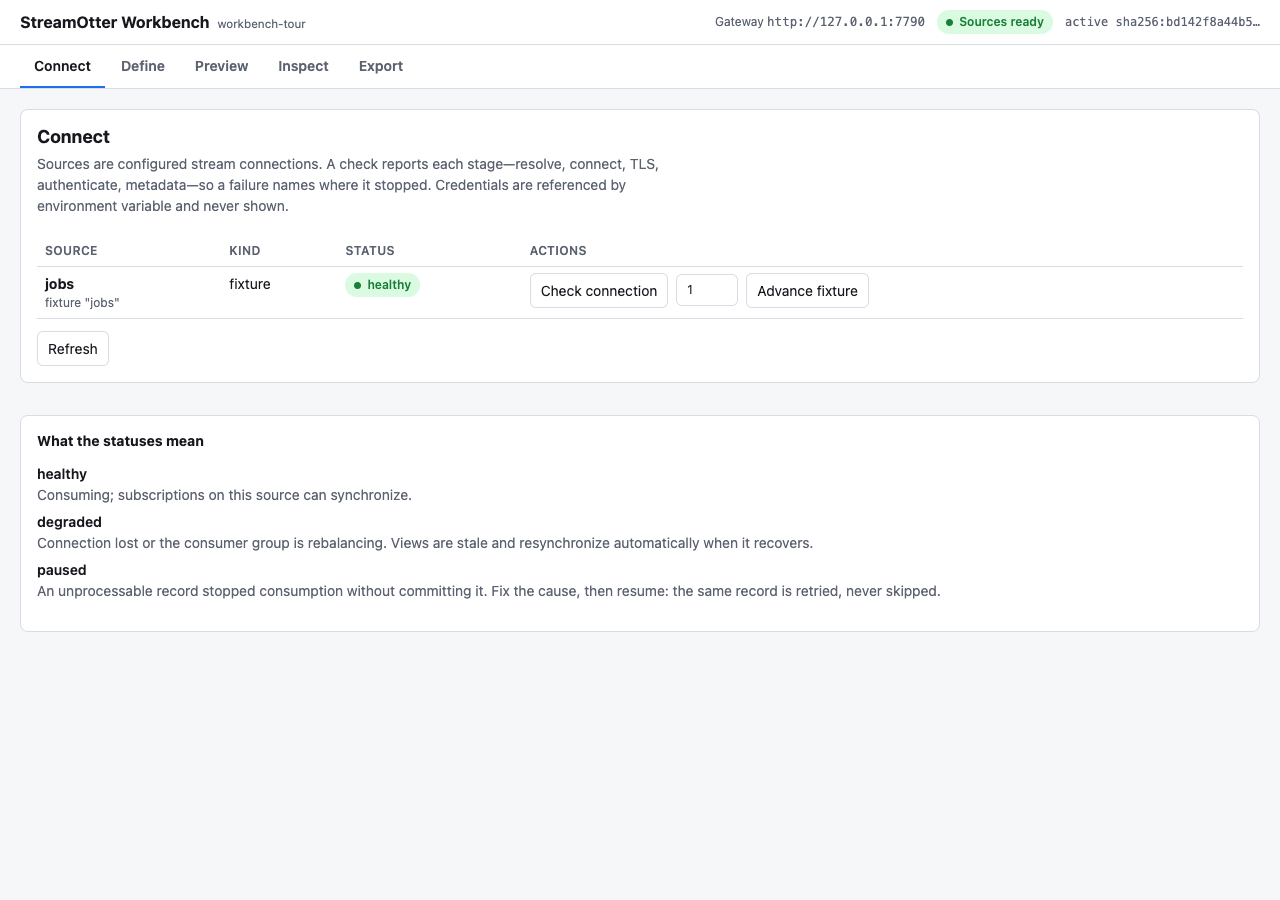
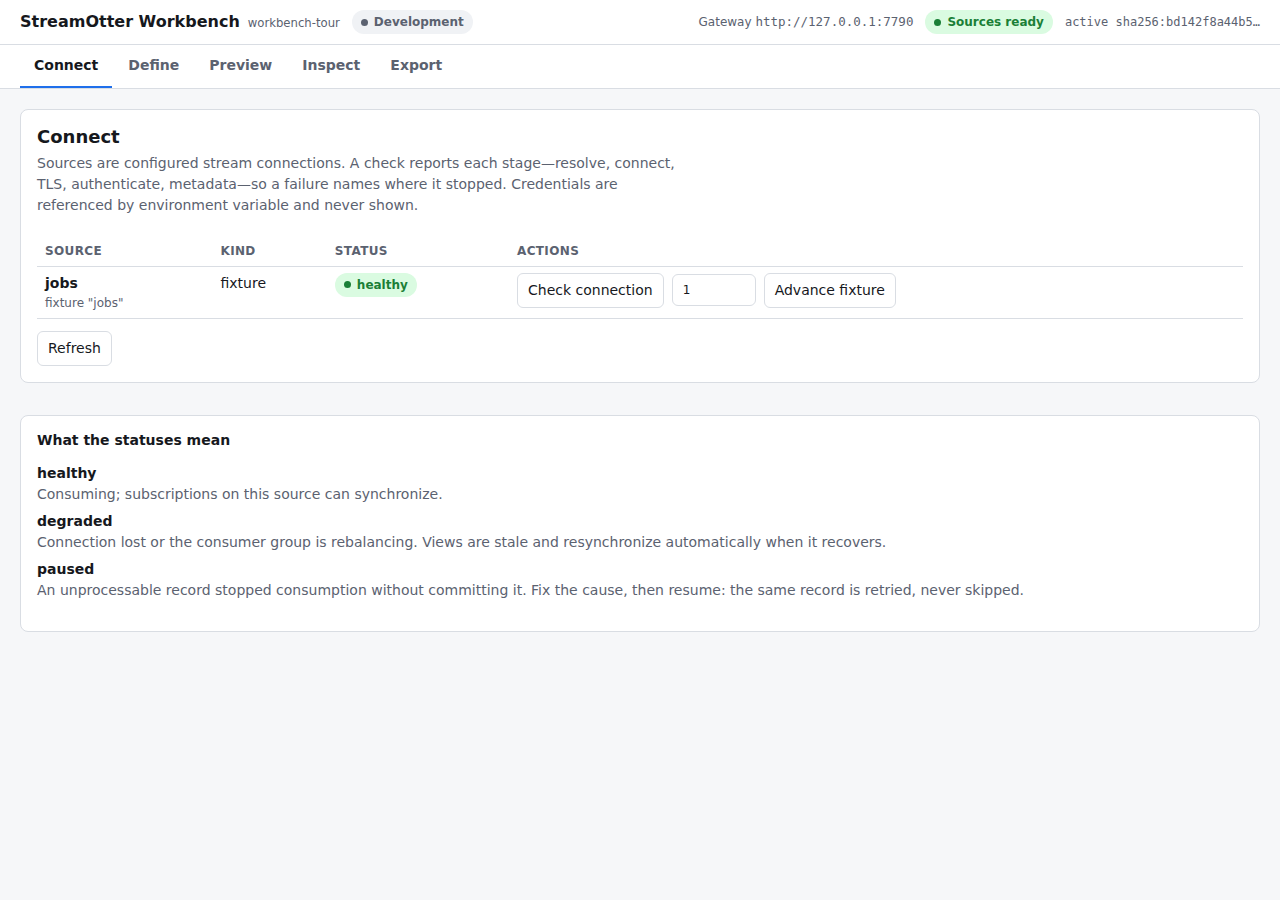
fix(recordings): derive capture labels from the install and recapture on 0.2.0-rc.1
The workbench tour said "Published npm workbench" and the creek recording
"macOS; published streamotter@0.1.0-rc.3", both hand-typed, so a re-run
on another release or a pre-publish tarball kept the old label. Both
capture scripts now take the version from the installed package, the
install source (npm or pre-publish tarball) from the lockfile, and the
platform from the machine, and the workbench capture records each
image's size.

Both assets are recaptured on the vendored 0.2.0-rc.1 tarball. The home
page's workbench caption and image size now come from capture.json
instead of a typed date and the site's global version.

diff --git a/scripts/capture-demo.ts b/scripts/capture-demo.ts
@@ -1,4 +1,4 @@
-/** Capture actual SDK events from the installed npm gateway, never fabricated states. */
+/** Capture actual SDK events from the installed gateway, never fabricated states. */
 import { createServer } from "node:net";
 import { mkdir, writeFile } from "node:fs/promises";
 import { createGateway, silentLogger } from "streamotter/gateway";
@@ -8,6 +8,10 @@ import { handlers, development, fixtureTickSizes } from "../apps/field-station/s
 import { projectConfig } from "../apps/field-station/src/project.ts";
 import { fieldStationSecret, issueToken } from "../apps/field-station/src/identity.ts";
 import type { AppChannels } from "../apps/field-station/src/generated/streamotter.generated.ts";
+import { installedStreamotter } from "./capture-provenance.mjs";
+// The label comes from the install itself: version, npm or pre-publish tarball, and this machine's platform.
+const installed = installedStreamotter(new URL("../", import.meta.url));
+const where = `Local fixture run on ${installed.platform}; streamotter@${installed.version} from ${installed.install === "published npm" ? "npm" : "a pre-publish tarball"}, no Kafka; one simulation tick per two seconds`;
 const socket = createServer();
 await new Promise<void>(resolve => socket.listen(0, "127.0.0.1", resolve));
 const port = (socket.address() as { port: number }).port;
@@ -35,6 +39,6 @@ try {
   await new Promise(resolve => setTimeout(resolve, 250));
   const destination = new URL("../apps/site/public/recordings/creek.json", import.meta.url);
   await mkdir(new URL(".", destination), { recursive: true });
-  await writeFile(destination, JSON.stringify({ recordedAt, where: "Local fixture run on macOS; published streamotter@0.1.0-rc.3, no Kafka; one simulation tick per two seconds", durationMs: Math.round(performance.now()-started), events }, null, 2)+"\n");
+  await writeFile(destination, JSON.stringify({ recordedAt, where, durationMs: Math.round(performance.now()-started), events }, null, 2)+"\n");
   console.log(`Captured ${events.length} actual SDK events.`);
 } finally { await client.close(); await management.close(); await gateway.stop(); }

diff --git a/e2e/home.spec.ts b/e2e/home.spec.ts
@@ -9,6 +9,7 @@
  */
 import { readFileSync } from "node:fs";
 import { expect, test } from "@playwright/test";
+import capture from "../apps/site/public/recordings/workbench/capture.json" with { type: "json" };
 
 /** Each card's state chip, scoped to the live panel so it never matches the
  *  static state-name chips in the "no silent failures" section further down
@@ -100,4 +101,13 @@ test.describe("home page V1.1 panel (LC11-A01, A02, A40)", () => {
     await expect(card).toContainText("The Source failures track also lists the quarantine exercises that wait for StreamOtter V1.1.");
     await expect(page.locator("main")).not.toContainText(/four controlled failures/i);
   });
+});
+
+test("the workbench screenshot is captioned from its own capture, not the site's pin", async ({ page }) => {
+  await page.goto("/");
+  const capturedOn = new Date(capture.capturedAt).toLocaleDateString("en-US", { year: "numeric", month: "long", day: "numeric", timeZone: "UTC" });
+  await expect(page.locator("[data-workbench-caption]")).toHaveText(`Recording · ${capturedOn} · streamotter@${capture.version} · local fixture project, not the hosted demo.`);
+  const shot = page.locator("#workbench-preview img.workbench-shot");
+  await expect(shot).toHaveAttribute("width", String(capture.images.preview.width));
+  await expect(shot).toHaveAttribute("height", String(capture.images.preview.height));
 });

diff --git a/apps/site/src/demo-availability.ts b/apps/site/src/demo-availability.ts
@@ -15,7 +15,7 @@ import { INSTALLED_VALIDATOR_ON_FAILURE_HANDLING } from "./planned-failure-handl
 import { RELEASE, SITE } from "./site.ts";
 
 /** The recorded workbench tour's own provenance, so a later version pin can't relabel it. */
-export const RECORDING = { version: capture.version, capturedOn: capture.capturedAt.slice(0, 10) } as const;
+export const RECORDING = { version: capture.version, install: capture.install, capturedOn: capture.capturedAt.slice(0, 10) } as const;
 
 /** Source-failure stories the Lab lists but the current bench can't run (every one except Fouled sensor). */
 export const WAITING_EXERCISES = TRACKS["source-failures"].filter(id => SCENARIOS[id].controls === null);
@@ -67,7 +67,7 @@ export const SURFACES: readonly Surface[] = [
   },
   {
     name: "Workbench", href: "/workbench/", state: "recorded",
-    runs: `A recorded tour of the published workbench: streamotter@${RECORDING.version}, captured ${RECORDING.capturedOn} on a local fixture project.`,
+    runs: `A recorded tour of the workbench: streamotter@${RECORDING.version} (${RECORDING.install}), captured ${RECORDING.capturedOn} on a local fixture project.`,
     needs: `An interactive sandbox needs a published workbench integration seam. streamotter@${RELEASE} doesn't have one.`
   },
   {

diff --git a/apps/site/test/site-content.test.ts b/apps/site/test/site-content.test.ts
@@ -81,7 +81,7 @@ test("the record-disposition lifecycle follows ADR-15A's order and says what eac
 });
 
 test("demo availability reads its facts from their sources", () => {
-  assert.deepEqual(RECORDING, { version: capture.version, capturedOn: capture.capturedAt.slice(0, 10) });
+  assert.deepEqual(RECORDING, { version: capture.version, install: capture.install, capturedOn: capture.capturedAt.slice(0, 10) });
   // The count the page states matches what an rc.3 backend reports as unavailable.
   const unavailable = labCapabilities({ labEnabled: true, now: 0, version: RELEASE }).scenarios.filter(scenario => !scenario.available).map(scenario => scenario.id);
   assert.deepEqual([...WAITING_EXERCISES].sort(), [...unavailable].sort());

diff --git a/docs/contracts/ui-components.md b/docs/contracts/ui-components.md
@@ -105,7 +105,7 @@ The SDK log (`.lc-log` in `LiveCreek.astro`, `field-log.ts` in #13) is the sixth
 
 ## 6. Test hooks
 
-These `data-*` attributes are the contract between the pages and the browser tests (F.5 and later); changing one needs `qa`'s agreement. On the live panel: `data-live-creek`, `data-status`, `data-connection`, `data-network`, `data-overview`, `data-card`, `data-state`, `data-v`, `data-rev`, `data-age`, `data-log`, `data-announce`, `data-note`, `data-drop`, `data-restore`, `data-clock`, and `data-source`; on the home page, `data-copy`. New shared components add their own `data-*` hooks rather than relying on classes, and every hook a test uses is listed here by the pull request that adds it.
+These `data-*` attributes are the contract between the pages and the browser tests (F.5 and later); changing one needs `qa`'s agreement. On the live panel: `data-live-creek`, `data-status`, `data-connection`, `data-network`, `data-overview`, `data-card`, `data-state`, `data-v`, `data-rev`, `data-age`, `data-log`, `data-announce`, `data-note`, `data-drop`, `data-restore`, `data-clock`, and `data-source`; on the home page, `data-copy` and `data-workbench-caption` (the workbench screenshot's caption, read from its `capture.json`). New shared components add their own `data-*` hooks rather than relying on classes, and every hook a test uses is listed here by the pull request that adds it.
 
 On `/lab/` ([lab-api.md section 12](lab-api.md#12-the-source-failures-track-v11), V1.1 W4): `data-lab-tracks`, `data-lab-track-link`, `data-lab-track`, `data-lab-scenario`, `data-lab-scenario-link`, `data-lab-selected-mark`, `data-lab-availability` (with `data-state`: `existing`, `pending`, `available`, `unavailable`), `data-lab-availability-text`, `data-lab-start`, `data-lab-capability`, and the incident panel's `data-lab-incident`, `data-lab-incident-empty`, `data-lab-incident-reason`, `data-lab-incident-body`, `data-lab-incident-evidence`, `data-lab-incident-source`, `data-lab-incident-recovery`, `data-lab-incident-evaluation`, `data-lab-incident-next`, `data-lab-incident-detail`, and `data-lab-incident-steps`. Unavailable scenario actions use `aria-disabled="true"` with `aria-describedby` on the visible reason, so they stay focusable and explained.
 

diff --git a/docs/research/content-verification.md b/docs/research/content-verification.md
@@ -14,7 +14,7 @@ Only those five content routes are marked ready. This does not assert that the o
 
 ## Capture provenance and reproduction
 
-`apps/site/public/recordings/workbench/capture.json` records exact release, time, viewport, runtime and steps. `scripts/capture-workbench.mjs` scaffolds a temporary project with the installed npm CLI, starts its development gateway on loopback ports 7790/7791, drives the real workbench with Playwright, and closes/cleans up its own process and temporary files. The ephemeral management token is never logged or stored; the recording only sees a password input.
+`apps/site/public/recordings/workbench/capture.json` records exact release, time, viewport, runtime, platform, image sizes and steps, and whether the package came from npm or from a pre-publish tarball. `scripts/capture-provenance.mjs` derives the release, the install source (from the lockfile) and the platform, for this capture and for `scripts/capture-demo.ts`'s creek recording, so neither label is typed by hand. `scripts/capture-workbench.mjs` scaffolds a temporary project with the installed npm CLI, starts its development gateway on loopback ports 7790/7791, drives the real workbench with Playwright, and closes/cleans up its own process and temporary files. The ephemeral management token is never logged or stored; the recording only sees a password input.
 
 Run after installing the repository's QA dependencies and Playwright browsers:
 
